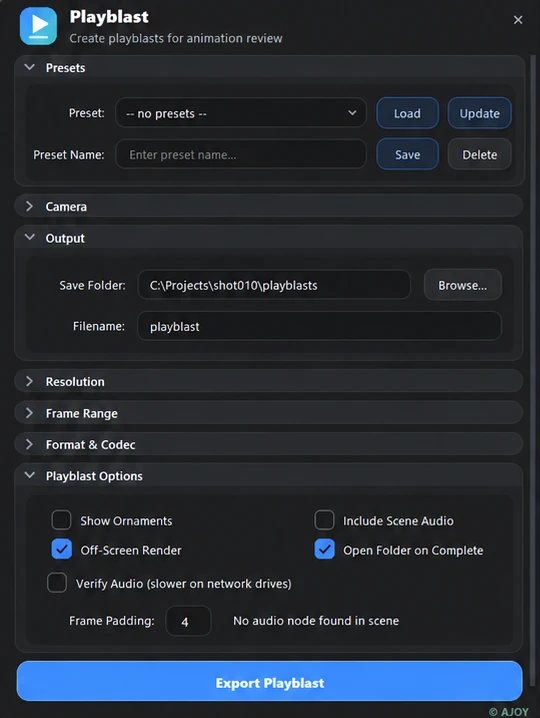
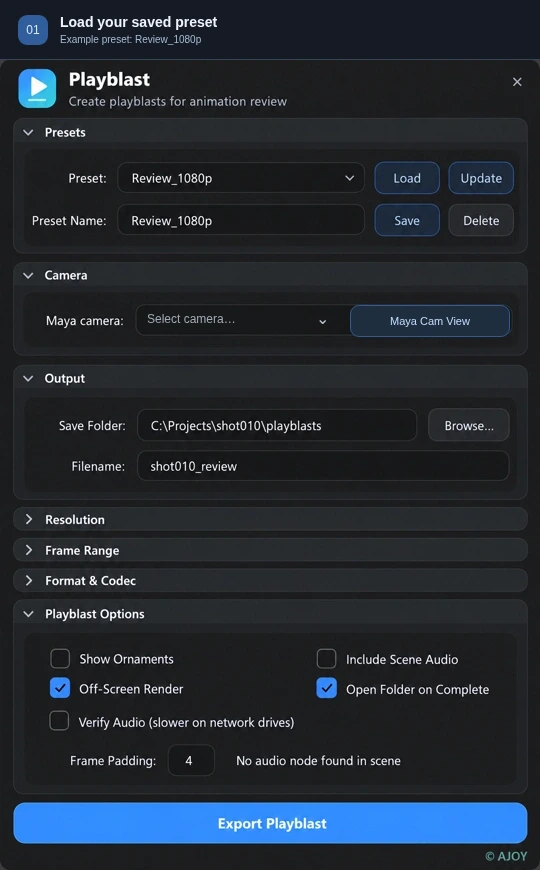
Animate Playblast preset loading, shot-camera selection and export clicks

diff --git a/tool-playblast.html b/tool-playblast.html
@@ -72,7 +72,7 @@
 </script>
 <link rel="stylesheet" href="css/site-interactions.css?v=20261019-complete1">
 <link rel="stylesheet" href="css/mobile.css?v=20261020-m1">
-<link rel="stylesheet" href="css/playblast-preview.css?v=20261021-gif1">
+<link rel="stylesheet" href="css/playblast-preview.css?v=20261021-clicks1">
 </head>
 <body>
 <div class="progress" id="progress" aria-hidden="true"></div>
@@ -124,9 +124,9 @@
       </div>
       <figure class="tool-visual playblast-screens reveal" aria-labelledby="playblast-preview-caption">
         <div class="visual-heading"><span>PLAYBLAST / INTERFACE PREVIEW</span><span class="visual-dot" aria-hidden="true"></span></div>
-        <img class="playblast-screen" src="assets/playblast-poster.webp" data-playblast-gif="assets/playblast-loop.gif" width="540" height="718" fetchpriority="high" alt="Playblast interface walkthrough: choose output, export with a progress dialog, then see the saved-file confirmation.">
-        <ol class="playblast-screen-steps" aria-label="Preview sequence"><li><span>01</span>Set output</li><li><span>02</span>Export</li><li><span>03</span>Saved</li></ol>
-        <figcaption id="playblast-preview-caption">Loop assembled from the supplied interface images, with an example folder path. <a href="assets/playblast-loop.gif" target="_blank" rel="noopener">View GIF</a></figcaption>
+        <img class="playblast-screen" src="assets/playblast-poster.webp?v=20261021-clicks1" data-playblast-gif="assets/playblast-loop.gif?v=20261021-clicks1" width="540" height="870" fetchpriority="high" alt="Animated Playblast walkthrough: click Load for Review_1080p, select SH_000 and click Maya Cam View, export the playblast, then click OK.">
+        <ol class="playblast-screen-steps" aria-label="Preview sequence"><li><span>01</span>Load preset</li><li><span>02</span>Maya camera</li><li><span>03</span>Export</li><li><span>04</span>OK</li></ol>
+        <figcaption id="playblast-preview-caption">Animated interface walkthrough using the supplied screenshots, with an example preset, camera and folder. <a href="assets/playblast-loop.gif?v=20261021-clicks1" target="_blank" rel="noopener">View GIF</a></figcaption>
       </figure>
     </div>
   </section>
@@ -139,9 +139,9 @@
       <div class="guide-features"><article class="guide-feature reveal"><span class="guide-index">01</span><h3>Presets for repeatable reviews</h3><p>Save, load, update and delete complete playblast setups by name.</p></article><article class="guide-feature reveal"><span class="guide-index">02</span><h3>The resolution you need</h3><p>From Camera, HD 1080p, HD 720p, 2K, 4K, Half (960×540) or Custom, with a timeline or custom range.</p></article><article class="guide-feature reveal"><span class="guide-index">03</span><h3>Movie or image sequence</h3><p>Use available QuickTime codecs, AVI, or PNG, JPEG, TIF, TGA and EXR sequences, with quality and padding options.</p></article><article class="guide-feature reveal"><span class="guide-index">04</span><h3>Sound and camera care</h3><p>Include scene audio, optionally verify it, and restore the camera’s pan and zoom after capture. Ornaments and off-screen capture are optional.</p></article></div>
       <div class="guide-workflow">
         <div class="guide-step-heading reveal"><p class="eyebrow">FROM THE SHELF TO THE RESULT</p><h2>Make it part of<br>your workflow.</h2><p>Open the tool from the Wrapline shelf or menu. Right-click its shelf button to assign your own hotkey.</p><small>Autodesk Maya 2023–2026 · Windows</small></div>
-        <ol class="guide-steps"><li class="reveal"><span class="step-index">01</span><div><h3>Choose camera and preset</h3><p>Load a named preset or choose the camera yourself.</p></div></li><li class="reveal"><span class="step-index">02</span><div><h3>Frame the review</h3><p>Set resolution and start/end frames, or use the timeline.</p></div></li><li class="reveal"><span class="step-index">03</span><div><h3>Choose the output</h3><p>Set the folder, name, format and codec, then choose audio and viewport options.</p></div></li><li class="reveal"><span class="step-index">04</span><div><h3>Capture</h3><p>Click Export Playblast. Open the folder on completion if you enabled that option.</p></div></li></ol>
+        <ol class="guide-steps"><li class="reveal"><span class="step-index">01</span><div><h3>Load a preset, then choose the camera</h3><p>Select a saved preset and click Load. Open the Maya camera picker and choose a shot camera, such as <code>SH_000</code> or <code>Shot_000</code>. Only names starting with <code>SH_</code> or <code>Shot_</code> are detected. Click <strong>Maya Cam View</strong> to look through the selected camera.</p></div></li><li class="reveal"><span class="step-index">02</span><div><h3>Frame the review</h3><p>Set resolution and start/end frames, or use the timeline.</p></div></li><li class="reveal"><span class="step-index">03</span><div><h3>Choose the output</h3><p>Set the folder, name, format and codec, then choose audio and viewport options.</p></div></li><li class="reveal"><span class="step-index">04</span><div><h3>Capture</h3><p>Click Export Playblast, wait for the saved-file confirmation, then click OK. Open the output folder if you enabled that option.</p></div></li></ol>
       </div>
-      <aside class="guide-notes reveal"><div><p class="eyebrow">BEFORE YOU START</p><h3>What you need</h3><p>Codecs available on your computer. FFmpeg is optional for audio verification.</p></div><div><p class="eyebrow">GOOD TO KNOW</p><h3>A detail worth keeping in mind.</h3><p>A file with the same name in the destination folder is replaced.</p></div></aside>
+      <aside class="guide-notes reveal"><div><p class="eyebrow">BEFORE YOU START</p><h3>What you need</h3><p>Use a Maya camera name starting with <code>SH_</code> or <code>Shot_</code>; other camera names are not detected. Available formats depend on your installed codecs. FFmpeg is optional for audio verification.</p></div><div><p class="eyebrow">GOOD TO KNOW</p><h3>A detail worth keeping in mind.</h3><p>A file with the same name in the destination folder is replaced.</p></div></aside>
       <p class="guide-source">Tool details: Wrapline User Guide, page 7. All 13 tools are included in Online and Offline. Using the tools requires an active trial or license.</p>
       <aside class="tool-trial reveal"><div class="tool-trial-mark" aria-hidden="true"><span>02</span><small>DAYS FREE</small></div><div><p class="eyebrow trial-label">YOUR 2-DAY ONLINE FREE TRIAL</p><h2>Try Playblast.<br>Free for 2 days.</h2><p>Put Playblast to work in your own Maya scenes, with all twelve companion tools included. Try the full Online toolkit free for two days before the first subscription payment.</p><small>One trial per eligible customer, browser, network and PayPal payer account. Verified registration required. Approve with PayPal, or with Razorpay in India. Billing starts automatically after two days unless you cancel.</small></div><div class="tool-trial-action"><a class="btn btn-dark" href="wrapline.html#trial" data-trial-cta>Explore the 2-day free trial <svg class="trial-arrow" viewBox="0 0 24 24" aria-hidden="true"><path d="M6 18L18 6M6 6h12v12"/></svg></a><p class="trial-availability" data-trial-status>Availability is confirmed at checkout.</p></div></aside>
     </div>
@@ -167,5 +167,5 @@
 </footer>
 <script src="js/main.js?v=20261019-i1"></script>
 <script type="module" src="js/extras.js?v=20261019-m1"></script>
-<script type="module" src="js/ui-motion.js?v=20261019-s1"></script><script src="js/site-config.js?v=20261020-rz1"></script><script type="module" src="js/account.js?v=20261020-ps2"></script><script type="module" src="js/trial-promotion.js?v=20261020-intl1"></script><script type="module" src="js/site-interactions.js?v=20261019-complete1"></script><script type="module" src="js/playblast-preview.js?v=20261021-gif1"></script></body>
+<script type="module" src="js/ui-motion.js?v=20261019-s1"></script><script src="js/site-config.js?v=20261020-rz1"></script><script type="module" src="js/account.js?v=20261020-ps2"></script><script type="module" src="js/trial-promotion.js?v=20261020-intl1"></script><script type="module" src="js/site-interactions.js?v=20261019-complete1"></script><script type="module" src="js/playblast-preview.js?v=20261021-clicks1"></script></body>
 </html>

diff --git a/scripts/media/playblast-clicks.html b/scripts/media/playblast-clicks.html
@@ -1,0 +1,25 @@
+<!doctype html><html lang="en"><meta charset="utf-8"><title>Playblast click-animation source</title><style>
+*{box-sizing:border-box}html,body{margin:0;background:#202123;width:540px;height:870px;font-family:Arial,sans-serif;color:#eef4ff}.guide{height:60px;display:flex;align-items:center;gap:12px;padding:0 18px;background:#141a24;border-bottom:1px solid #384354}.badge{display:grid;place-items:center;width:30px;height:30px;border-radius:9px;background:#315d9a;font-size:12px;color:#d5eaff}.guide b{display:block;font-size:14px}.guide small{display:block;margin-top:4px;color:#a6bad6;font-size:10px}.app{position:relative;width:540px;height:810px;overflow:hidden}.app>img{display:block;width:540px;height:810px}.camera-placeholder{position:absolute;left:147px;top:249px;width:160px;height:22px;padding-top:3px;background:#18191a;color:#9faab5;font-size:12px}.camera-view{position:absolute;left:350px;top:245px;width:160px;height:32px;display:grid;place-items:center;border:1px solid #315b96;border-radius:9px;background:#1f2d3e;color:#c2dcff;font-size:11px}.camera-view.clicked{border-color:#8dcaff;background:#315d91}.camera-arrow{position:absolute;left:316px;top:249px;color:#b6c0ca;font-size:16px}.camera-menu{position:absolute;left:136px;top:277px;width:200px;padding:4px;border:1px solid #3b5374;border-radius:6px;background:#22262d;box-shadow:0 8px 16px #0009}.camera-menu div{padding:10px 10px;font-size:12px;line-height:1}.camera-menu div:first-child{background:#315e9d;border-radius:4px}.shade{position:absolute;inset:0;display:flex;align-items:center;justify-content:center;background:#0002}.dialog{width:450px;min-height:142px;border:1px solid #3c4045;border-radius:17px;background:#202123;box-shadow:0 15px 30px #0008;padding:19px 20px}.dialog-title{display:flex;align-items:center;gap:10px}.icon{display:grid;place-items:center;width:23px;height:23px;border-radius:7px;background:linear-gradient(130deg,#3b8bff,#43c9c4);color:white;font-size:13px}.dialog-title b{font-size:12px}.percent{margin-left:auto;color:#37d2da;font-size:13px;font-weight:bold}.meta{font-size:11px;color:#a7bdd3;margin:15px 0 9px;line-height:1.7}.track{height:11px;border-radius:8px;border:1px solid #35393e;overflow:hidden;background:#17191b}.fill{height:100%;background:linear-gradient(90deg,#3d8bff,#41c7c1);transform-origin:left}.cancel{margin-top:10px;font-size:9px;color:#8796a7}.success .dialog-title{border-bottom:1px solid #3c3f44;padding-bottom:14px}.success .dialog-title>span:last-child{margin-left:auto;color:#a3adb7;font-size:16px}.success p{font-size:11px;line-height:1.7;margin:17px 0}.ok{margin:0 0 0 auto;width:80px;border:1px solid #4bc2b9;border-radius:9px;padding:7px;text-align:center;background:#258f87;font-size:11px}.cursor{position:absolute;width:23px;height:28px;left:0;top:0;pointer-events:none;z-index:8;filter:drop-shadow(0 2px 2px #0006)}.cursor path{fill:#fff;stroke:#172a4a;stroke-width:1.5}.ring{position:absolute;width:40px;height:40px;left:0;top:0;border:2px solid #5bd8ed;border-radius:50%;z-index:7;pointer-events:none;box-shadow:0 0 0 4px #3d8bff14}.pressed{position:absolute;border:2px solid #8dcaff;border-radius:10px;background:#6fc9ff1a;pointer-events:none}#loaded{position:absolute;left:373px;top:101px;width:67px;height:33px}.hidden{display:none!important}
+</style><div class="guide"><span class="badge" id="badge">01</span><div><b id="headline">Load your saved preset</b><small id="subline">Example preset: Review_1080p</small></div></div><div class="app"><img id="base" src="playblast-base.webp" alt="Playblast interface"><div id="placeholder" class="camera-placeholder">Select camera…</div><span class="camera-arrow">⌄</span><span id="view" class="camera-view">Maya Cam View</span><div id="menu" class="camera-menu hidden"><div>SH_000</div><div>Shot_000</div></div><div id="loaded" class="pressed hidden"></div><div id="progress" class="shade hidden"><div class="dialog"><div class="dialog-title"><span class="icon">▶</span><b>EXPORTING PLAYBLAST</b><span class="percent" id="percent">0%</span></div><div class="meta" id="meta">Exporting…</div><div class="track"><div id="fill" class="fill"></div></div><div class="cancel">Press Esc to cancel</div></div></div><div id="success" class="shade success hidden"><div class="dialog"><div class="dialog-title"><span class="icon">▶</span><b>SUCCESS</b><span>×</span></div><p>Playblast saved to:<br>C:\Projects\shot010\playblasts</p><div class="ok">OK</div></div></div><div id="ring" class="ring"></div><svg id="cursor" class="cursor" viewBox="0 0 24 28"><path d="M3 2v22l6-6 4 8 4-2-4-7h9Z"/></svg></div><script>
+const $=id=>document.getElementById(id),ease=x=>x*x*(3-2*x),mix=(a,b,p)=>a+(b-a)*ease(Math.min(1,Math.max(0,p)));
+const positions=[[0,475,645],[1,475,645],[1.8,405,118],[2.8,405,118],[3.6,320,260],[4.1,320,260],[4.9,195,293],[5.2,195,293],[6.05,430,260],[6.35,430,260],[7.1,272,762],[11.5,272,762],[12.5,437,459],[14.5,437,459],[16,437,459]];
+window.renderFrame=t=>{
+ let a=positions[0],b=a;for(let i=1;i<positions.length;i++){b=positions[i];if(t<=b[0])break;a=b;}let p=b[0]===a[0]?1:(t-a[0])/(b[0]-a[0]);let x=mix(a[1],b[1],p),y=mix(a[2],b[2],p);
+ $('cursor').style.transform=`translate(${x}px,${y}px)`;$('cursor').style.opacity=t<.5?t*2:t>14.5?Math.max(0,1-(t-14.5)*2):1;
+ const clicks=[1.85,3.7,5,6.15,7.2,12.7],click=clicks.find(c=>t>=c&&t<c+.4);let f=click===undefined?0:(t-click)/.4;
+ $('ring').style.opacity=click===undefined?0:1-f;$('ring').style.transform=`translate(${x-18}px,${y-18}px) scale(${.3+f*.8})`;
+ $('loaded').classList.toggle('hidden',!(t>=1.85&&t<2.6));$('view').classList.toggle('clicked',t>=6.15&&t<6.65);
+ $('menu').classList.toggle('hidden',!(t>=3.8&&t<5.1));
+ $('placeholder').style.opacity=t<5.1?1:t>15.5?(t-15.5)*2:0;
+ let exporting=t>=7.45&&t<11.25,saved=t>=11.25&&t<12.95;
+ $('progress').classList.toggle('hidden',!exporting);$('success').classList.toggle('hidden',!saved);
+ const progress=Math.round(Math.min(1,Math.max(0,(t-7.6)/3.4))*100);$('percent').textContent=progress+'%';$('meta').textContent=progress===0?'Exporting…':`Frame ${progress}  |  ${progress} / 100  |  ${progress===100?'Finishing…':'ETA 0:02'}`;$('fill').style.transform=`scaleX(${progress/100})`;
+ for(const [id,start]of [['progress',7.45],['success',11.25]]){const k=Math.min(1,Math.max(0,(t-start)/.2));$(id).style.opacity=k;$(id).querySelector('.dialog').style.transform=`translateY(${(1-k)*5}px)`;}
+ let step=t<2.7?0:t<6?1:t<11.25?2:3;
+ $('badge').textContent=['01','02','03','04'][step];$('headline').textContent=['Load your saved preset','Choose the Maya shot camera','Export the playblast','Confirm the saved preview'][step];$('subline').textContent=['Example preset: Review_1080p','Only names starting with SH_ or Shot_ are detected.','Capture the review movie from SH_000.','Click OK to finish.'][step];
+ if(t>=2.1&&t<2.7){$('headline').textContent='Preset loaded: Review_1080p';$('subline').textContent='Next, choose the Maya shot camera.';}
+ if(t>=6.15&&t<7.2){$('headline').textContent='Click Maya Cam View';$('subline').textContent='Look through SH_000 before exporting.';}
+ if(t>13.1&&t<15.6){$('headline').textContent='Preview saved. Ready for the next shot.';$('subline').textContent='Load → Maya camera → Export → OK';}
+ if(t>=15.6){$('badge').textContent='01';$('headline').textContent='Load your saved preset';$('subline').textContent='Example preset: Review_1080p';}
+};renderFrame(0);
+</script></html>

diff --git a/css/playblast-preview.css b/css/playblast-preview.css
@@ -1,8 +1,8 @@
 /* Screenshot loop with a reserved aspect ratio and static reduced-motion fallback. */
 .tool-visual.playblast-screens{width:100%;max-width:600px;justify-self:center;padding:18px;background:var(--card)}
 .playblast-screens .visual-heading{font-size:.5625rem;letter-spacing:.08em;margin-bottom:16px}
-.playblast-screen{display:block;width:100%;height:auto;aspect-ratio:540 / 718;border:1px solid #373b42;border-radius:12px;background:#202123}
-.playblast-screen-steps{display:grid;grid-template-columns:repeat(3,minmax(0,1fr));gap:8px;margin:16px 0 0;padding:0;list-style:none}
+.playblast-screen{display:block;width:100%;height:auto;aspect-ratio:540 / 870;border:1px solid #373b42;border-radius:12px;background:#202123}
+.playblast-screen-steps{display:grid;grid-template-columns:repeat(4,minmax(0,1fr));gap:8px;margin:16px 0 0;padding:0;list-style:none}
 .playblast-screen-steps li{padding:10px 6px;color:var(--ink);font-size:.6875rem;line-height:1.6}
 .playblast-screen-steps span{display:block;color:var(--mute);font-size:.5625rem;margin-bottom:4px;letter-spacing:.08em}
 .playblast-screens figcaption{padding-top:10px;font-size:.5625rem;line-height:1.8}
